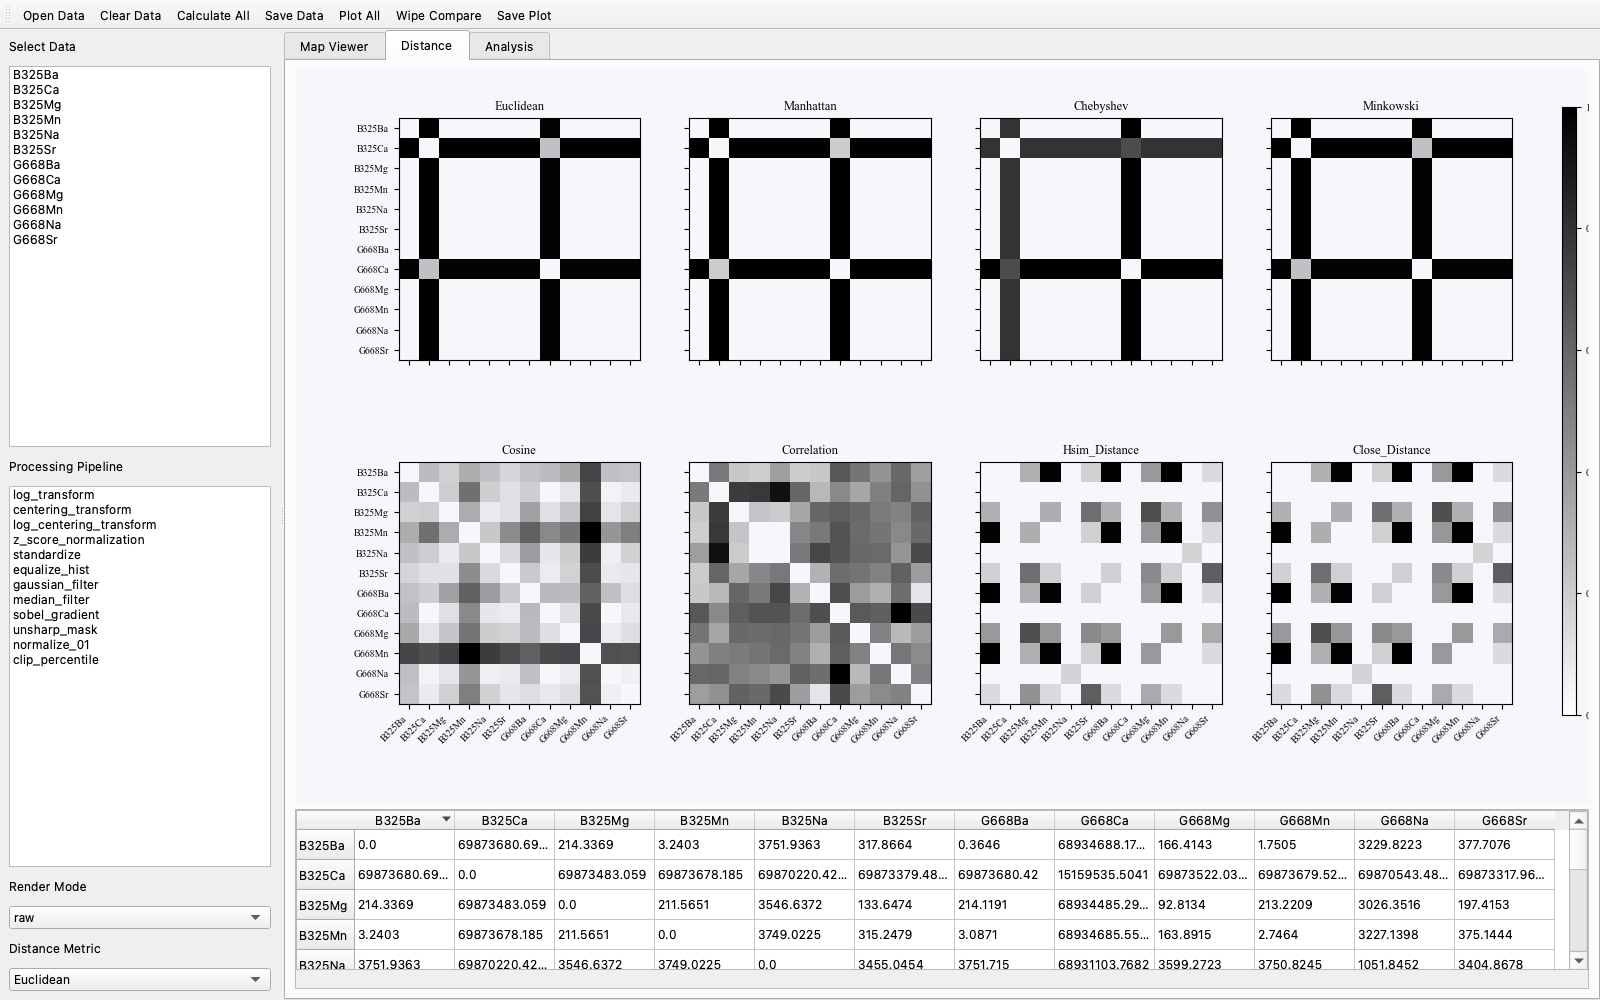
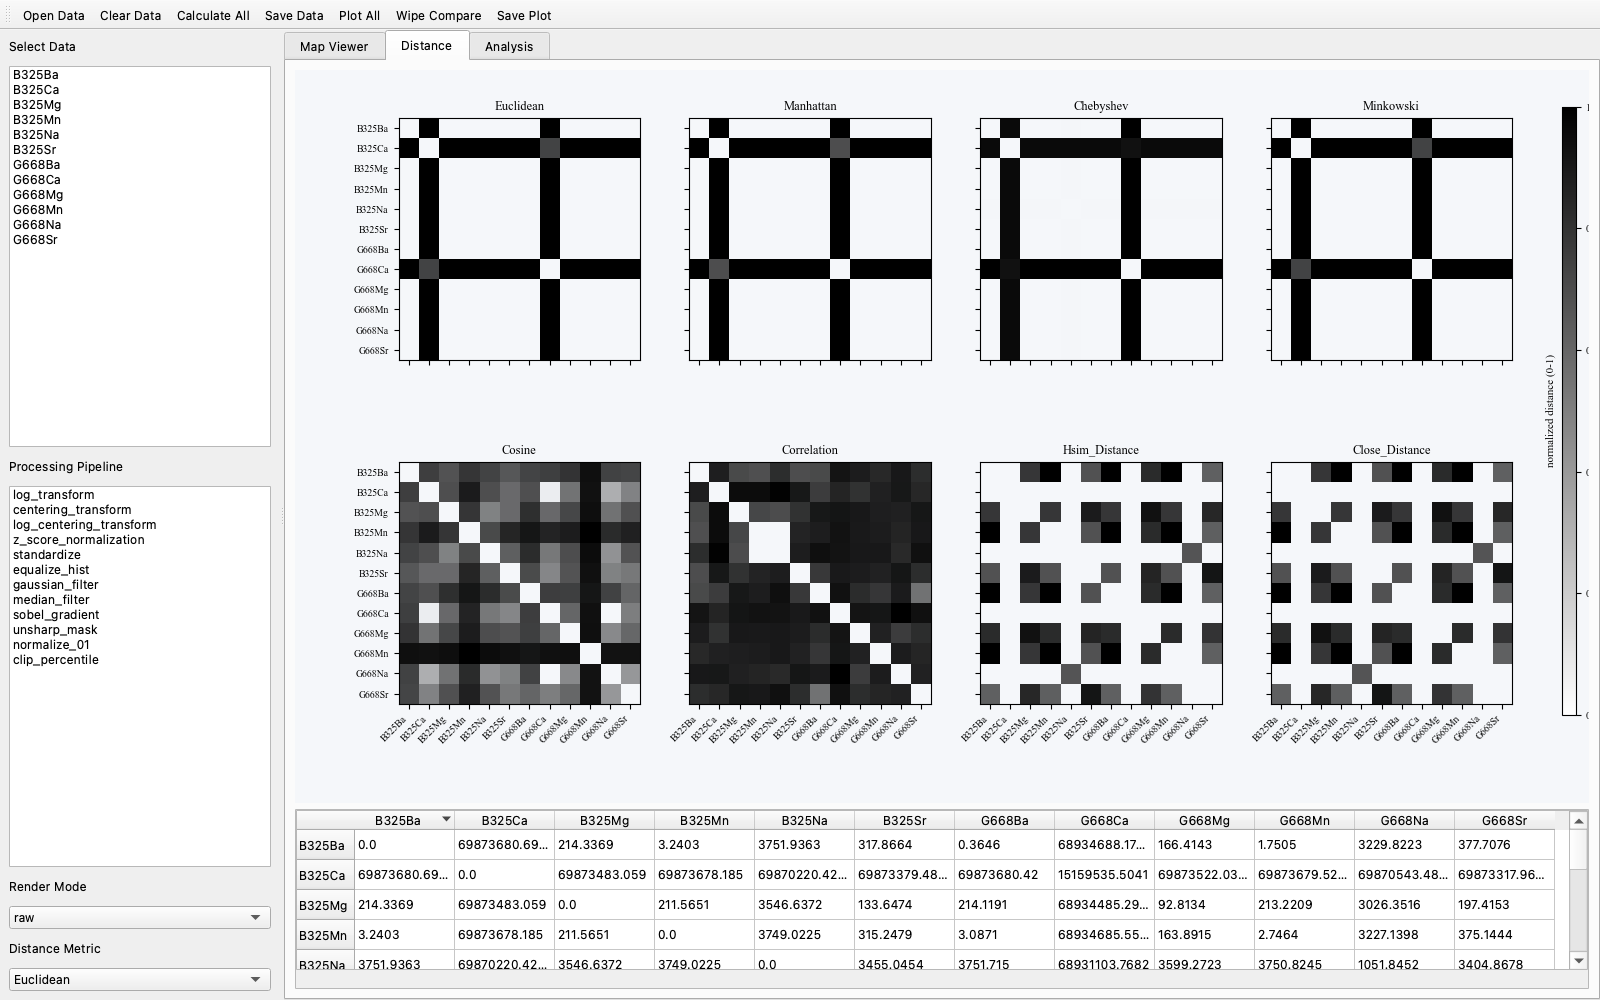
v1.2.7: distance grid log-stretch mapping + colorbar label on left
- log1p(255x)/log1p(255) stretches small differences for finer grayscale
- Colorbar label moved to left side to avoid clipping

diff --git a/cpsvisualizer/src/cpsvisualizer/app.py b/cpsvisualizer/src/cpsvisualizer/app.py
@@ -748,6 +748,9 @@ class CPSVisualizer(QMainWindow):
                 if hi - lo > 1e-12:
                     vals = (vals - lo) / (hi - lo)
                     np.fill_diagonal(vals, 0.0)
+                # log-stretch so small differences spread across more
+                # of the grayscale range for finer discrimination
+                vals = np.log1p(vals * 255.0) / np.log1p(255.0)
             row, col = pos // ncols, pos % ncols
             ax = fig.add_subplot(gs[row, col])
             ax.set_facecolor(FIG_BG)
@@ -773,8 +776,11 @@ class CPSVisualizer(QMainWindow):
             sm = _mpl.cm.ScalarMappable(cmap=ink_colormap(), norm=norm)
             sm.set_array([])
             cbar = fig.colorbar(sm, cax=cax)
-            cbar.set_label('normalized distance (0-1)', fontsize=8)
             cbar.ax.tick_params(labelsize=7)
+            # put label on the left side of the bar so it is not clipped
+            cbar.ax.yaxis.set_label_position('left')
+            cbar.ax.yaxis.set_ticks_position('right')
+            cbar.set_label('normalized distance (0-1)', fontsize=8)
         else:
             cax.axis('off')
         self._dist_canvas.draw()

diff --git a/cpsvisualizer/src/setup.py b/cpsvisualizer/src/setup.py
@@ -15,7 +15,7 @@ except Exception:
 
 setup(
     name='cpsvisualizer',
-    version='1.2.6',
+    version='1.2.7',
     description='CPS-Visualizer: Visualization, similarity measurement, and statistical analysis of LA-ICP-MS surface scan data.',
     long_description=README,
     long_description_content_type='text/markdown',
